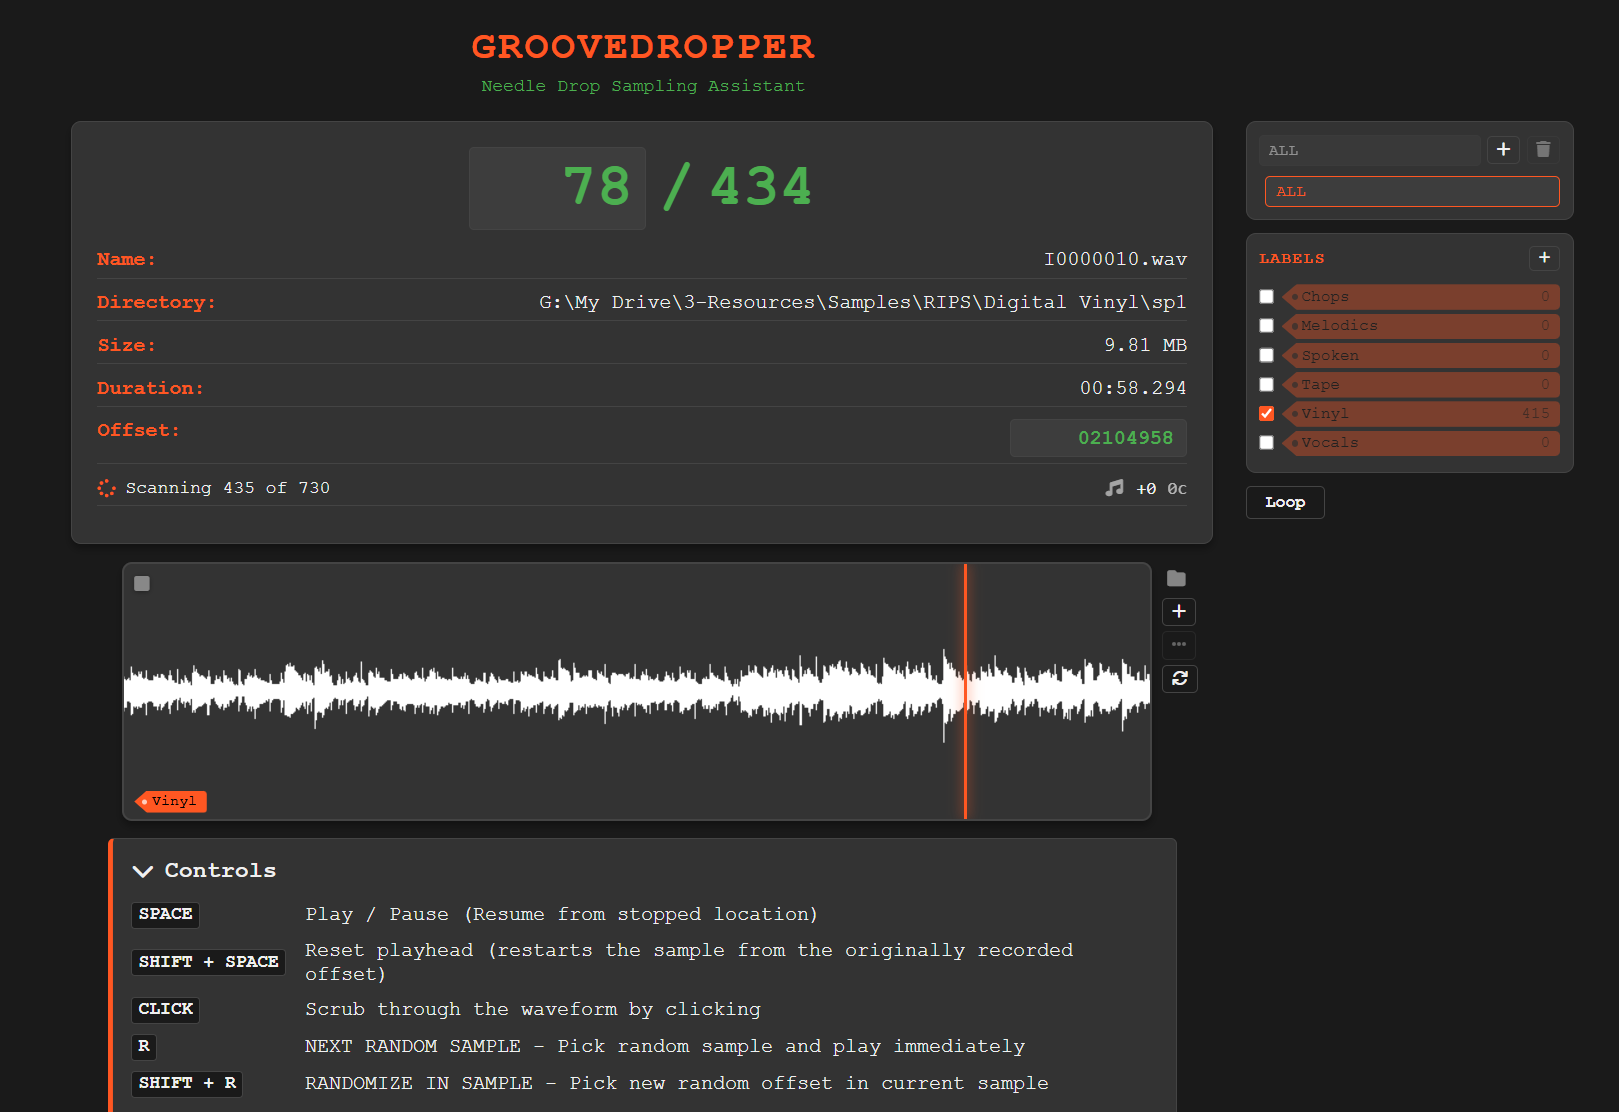
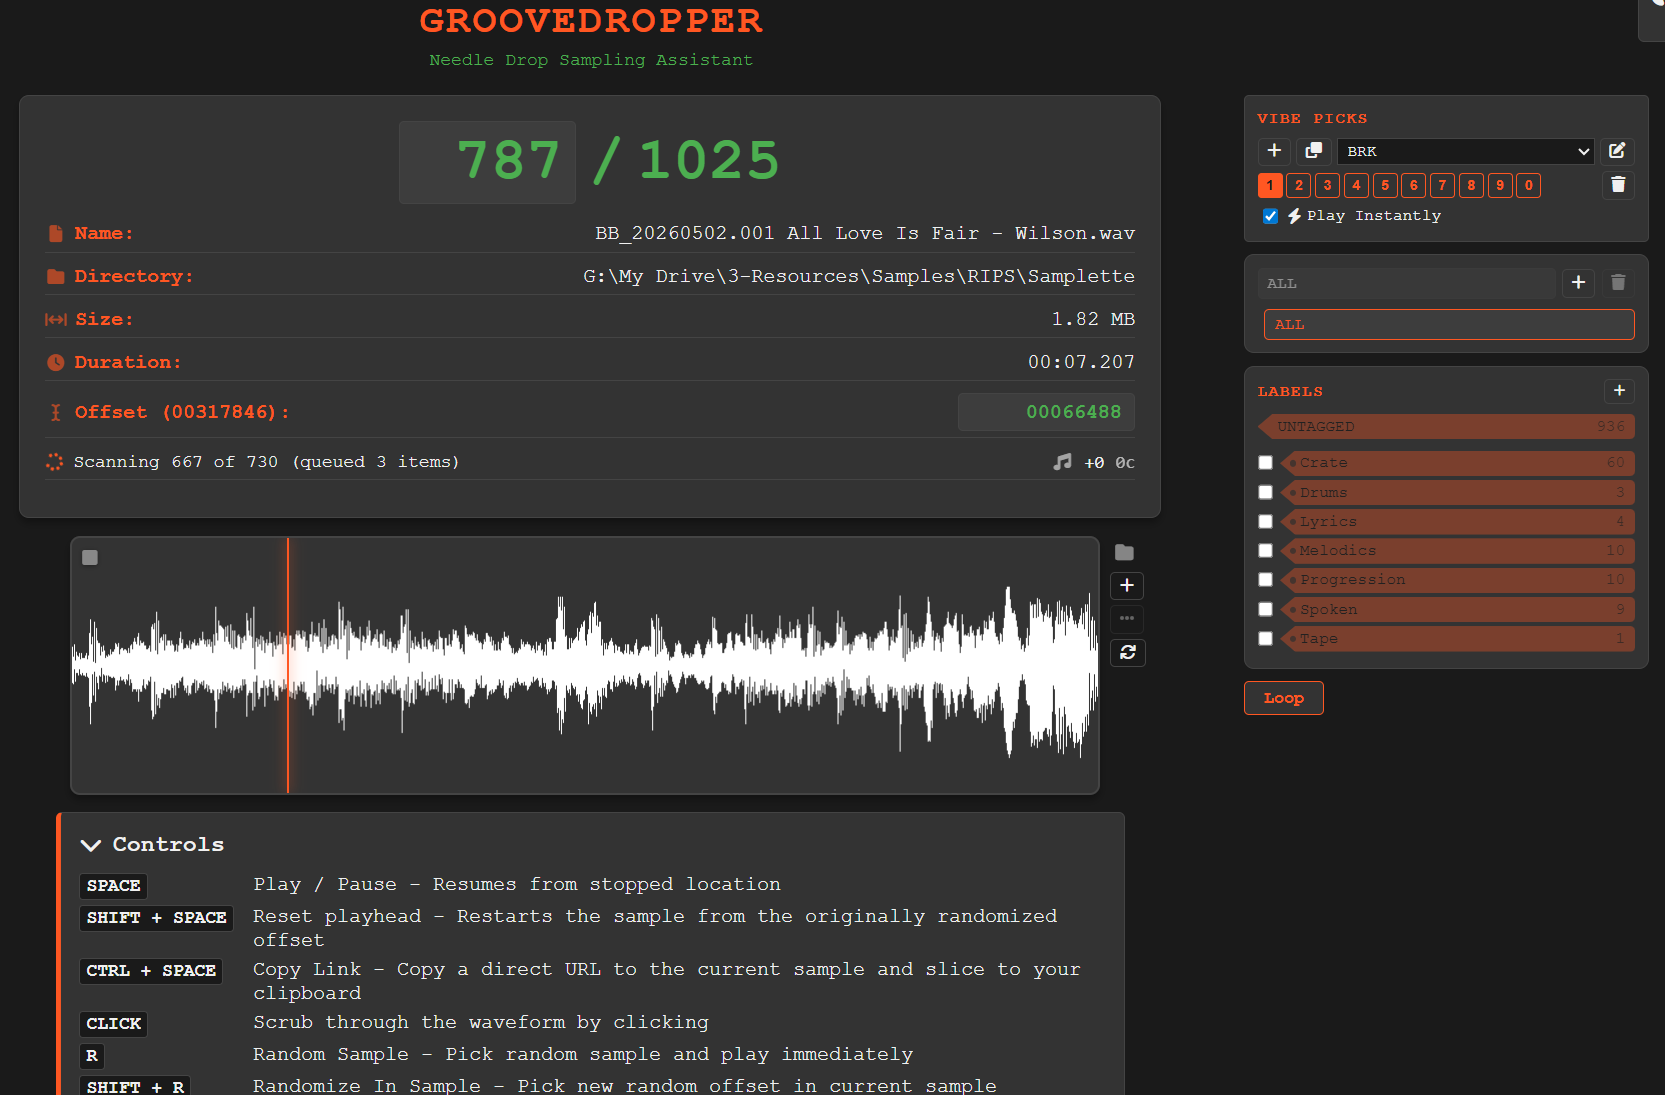
doc: Updated manual

diff --git a/docs/USER-MANUAL.md b/docs/USER-MANUAL.md
@@ -13,7 +13,8 @@ a searchable index and stream audio for playback.
 4. [Sharing & Saving](#sharing--saving)
 5. [Pitch Control](#pitch-control)
 6. [Labels & Presets](#labels--presets)
-7. [Themes](#themes)
+7. [Vibe Picks](#vibe-picks)
+8. [Themes](#themes)
 8. [Database Migration Policy](#database-migration-policy)
 9. [Troubleshooting](#troubleshooting)
 
@@ -53,18 +54,31 @@ finishes the waveform will be available upon the next randomization.
 
 ## Keyboard Shortcuts
 
-| Key | Action                                                                                                   |
-|-----|----------------------------------------------------------------------------------------------------------|
-| `Space` | Play / Pause — see [Play and Pause](#play-and-pause)                                                      |
-| `Shift + Space` | Reset playhead to the original randomized position                                                       |
-| `Ctrl + Space` | Copy a direct URL for the current sample and offset — see [Sharing & Saving](#3-sharing-saving)          |
-| `R` | Pick a new random sample and play immediately — see [Digging for Samples](#2-digging-for-samples)        |
-| `Shift + R` | Randomize the playhead offset within the current sample                                                  |
-| `P` | Go back in history                                                                                       |
-| `Click` waveform | Scrub to clicked position                                                                                |
-| `S` | Save a 10-second slice from the current playhead position                                                |
-| `,` / `.` | Pitch down / up 1 semitone (hold `Shift` for 10-cent fine steps) — see [Pitch Control](#4-pitch-control) |
-| `L` | Reset pitch to zero                                                                                      |
+- Sample playback
+  - `Space` — Play / Pause (see [Play and Pause](#play-and-pause))
+  - `Shift + Space` — Reset play head to the original randomized position
+  - `R` — Pick a new random sample and play immediately (see [Digging for 
+    Samples](#digging-for-samples))
+  - `Shift + R` — Randomize the play head offset within the current sample
+  - `P` — Go back in history
+  - `Click` waveform — Scrub to clicked position
+- Tuning
+  - `,` / `.` — Pitch down / up 1 semitone; hold `Shift` for 10-cent fine 
+    steps (see [Pitch Control](#pitch-control))
+  - Dragging with mouse over the pitch controls also works
+  - `L` — Reset pitch to zero
+- Sharing
+  - `Ctrl + Space` — Copy a direct URL for the current sample and offset (see 
+    [Sharing & Saving](#sharing--saving))
+  - `S` — Save a 10-second slice from the current playhead position
+  - `Shift + Click` on the file or folder icon copies the full file path to 
+    clipboard to manipulate or find the sample locally
+- Vibe list
+  - `Shift + 1`–`0` — Save current sample to a specific quick pick slot 1 – 10
+  - `1`–`9` / `0` — Recall quick pick slot 1 – 10
+  - `V` — Store current sample and offset to the next free quick pick slot
+  - `Arrow Left` / `J` — Navigate to the previous filled quick pick slot
+  - `Arrow Right` / `K` — Navigate to the next filled quick pick slot
 
 ---
 
@@ -84,7 +98,7 @@ required.
 
 ### Randomize within the sample
 
-If you are digging the sample but you want to explore more part of it, press 
+If you are digging the sample, but you want to explore more part of it, press 
 **`Shift + R`** to stay on the same file but jump to a different random 
 positions. This is useful when a sample sounds promising but the current 
 chop is not what you want.
@@ -117,6 +131,7 @@ Press **`P`** to step back through history.
 
 ⚠️ Pressing **`R`** will void all history that comes after the last selected 
 sample.
+
 
 ---
 
@@ -261,6 +276,46 @@ preset field and click `+` to save the current active labels as a preset.
 Clicking a preset later restores that exact label combination in one shot which 
 is handy for quickly switching between "Drums only", "Keys only", or any other 
 mood that you feel at the moment.
+
+---
+
+## Vibe Picks
+
+The vibe pick window looks like this:
+
+![Vibe Picks](images/vibe-picks.png)
+
+A vibe pick is used when you're randomly selecting samples, and you dig how 
+they sound together. It could be a break, a vocal or a melodic. 
+
+You can see a vibe list as a sketch list for samples you would like to 
+export together, for example:
+
+- You find a melodic that you really like, add it to a slot with the proper 
+  pitch
+- Now to find drums you categorized so you select `< ⸰ DRUMS` as a label and 
+  randomize until you find a break, add this to a vibe 
+- Now select `< ⸰ VOCALS` and find a cool phrase
+- Also, you can paste a bookmark (see [sharing a link](#sharing-a-link)) and 
+  add this to a vibe later
+
+Just start pressing `V` to create a new list and assign the current sample, 
+offset and pitch to this slot, or press `Shift` + `1 - 0` to assign a free 
+slot. Pressing `1 - 0` will recall this slot if occupied, and select it as a 
+focused item.
+
+When it is focused (e.g. selected), you can change the pitch and it will 
+automatically save it to the picked slot, so that you do not have to re-add 
+the slot.
+
+Pressing `+` will create a new list, and pressing the clone button will 
+clone the current list.
+
+Why cloning? If you are digging a vibe, but stumble upon a new sample that 
+takes you down a rabbit hole, clone the list and continue altering it so 
+that you can remove the samples that do not match the new path, but keep all 
+other presets.
+
 
 ---
 

diff --git a/README.md b/README.md
@@ -43,18 +43,21 @@ over the years.
   your song
 - You can add or edit tags to filter the random picking
 - You can add presets which toggle on or off a set of labels
+- You can add the samples you find to a vibe list, to group together 
+  matching samples and pitches
 - The links are sharable, which means the URL that you copy out could work 
   for someone else (if they have the same sample), or from a note if a chop 
   matches a future song 
-- The randomly selected sample drop location can be exported out as a WAV 
-  file and downloaded
+- The randomly selected sample drop location can be exported out as a 
+  sample slice and downloaded to import into your sampler or DAW.
 
 Check [the manual](docs/USER-MANUAL.md) for a more in depth guide. 
 
 ## Usage
 
 This project consists of a Python backend (Flask API + SQLite database) and 
-an Electron application that packages the whole thing into a standalone GUI. 
+a web front-end. It also has an Electron wrapper application that packages the 
+whole thing into a standalone GUI (in beta). 
 
 ### Running from source
 
@@ -69,7 +72,7 @@ You can run the Flask app via the command line. It will automatically open a tab
 Then run from the project directory:
 
 ```bat
-> run.bat c:\users\{yourname}\groovedropper.db
+> run.bat c:\users\{yourname}\groovedropper.db --db-file {path-to-database}\groovedropper.db
 ```
 
 The batch file creates a virtual environment and installs all required packages automatically.
@@ -125,9 +128,10 @@ Once the browser opens, use the **Add Folder** button in the UI to point GrooveD
 I am a developer by profession for 30+ years, and I am adept in Python 
 (since 2.7). However, due to time constraints and lack of knowledge in CSS + 
 Javascript, I used Claude to generate most of the front-end, and some of the 
-code generated in the back-end but I made sure to review it all. This project 
-took me two weeks to make, which otherwise would have taken months. I take 
-code quality very seriously and only accept changes which I understand myself.
+code generated in the back-end, but I made sure to review it all. This project 
+took me a few weeks to make, which otherwise would have taken many months. I 
+take code quality very seriously and only accept changes which I understand 
+myself.
 
 ## Built With
 - **Python / Flask** - Backend API and static file server.

diff --git a/docs/TODO.md b/docs/TODO.md
@@ -4,10 +4,6 @@
   preset edit box, play instantly, remove preset, all in dropdown
   - fix: Add 1...9 to controls 
   - doc: change manual to reflect vibes
-- reconsider: Copy whole path + filename on shift+click on folder icon (with 
-  toast) it can be easily used to launch a file in default browser?
-
-- fix: Gap between label row and main column, I do not know why it is there!
 
 - investigate: Key detection algorithm on current offset?
   - Investigate key at offset, draw key in text box on export, add the key 
@@ -15,6 +11,8 @@
 
 ## LATER
 
+- Manual offset, button next to the offset box (find next transient)
+- fix: Gap between label row and main column, I do not know why it is there!
 - feat: Random vibe generator - random name generator
   - Later? A button next to the vibe edit, that randomizes the name from a 
     long list (like polyend tracker, digitakt 2)
@@ -65,6 +63,10 @@
   - feat: Input description box to add to sample name (or maybe to be changed 
     from keywords?) to have keywords to search for and also maybe write down 
     thoughts about what to do with the (starred) sample
+- Nest labels, when I create a label Melodics/Piano the UI can seperate 
+  these two into Melodics and child of Piano. And when piano is selected it 
+  actually selects Melodics/Piano, when Melodics is selected it should 
+  select all child labels (back-end thing)
 
 ## MAYBE
 